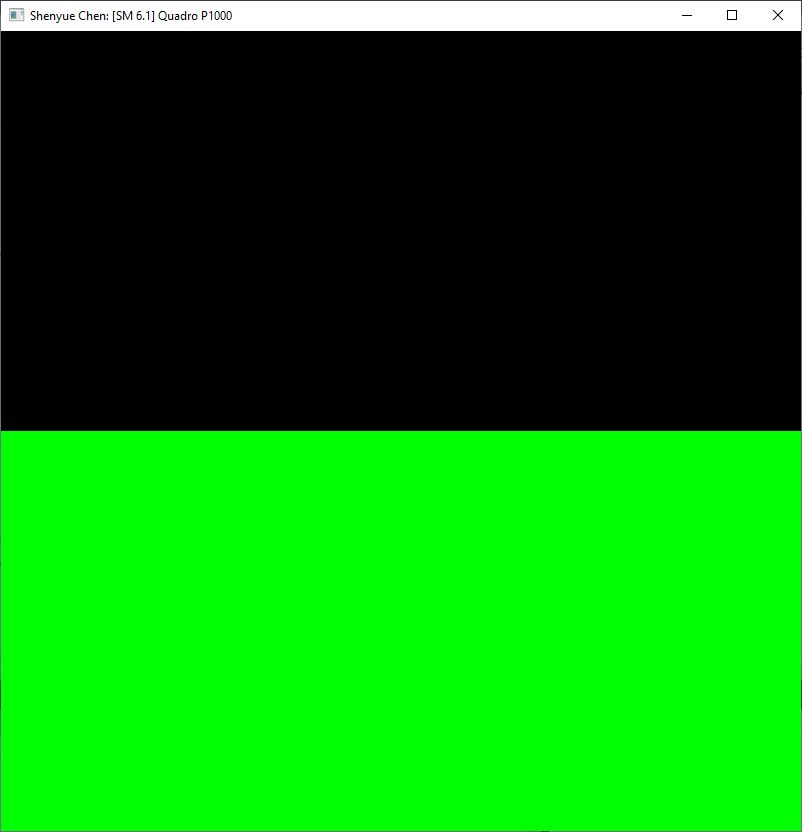
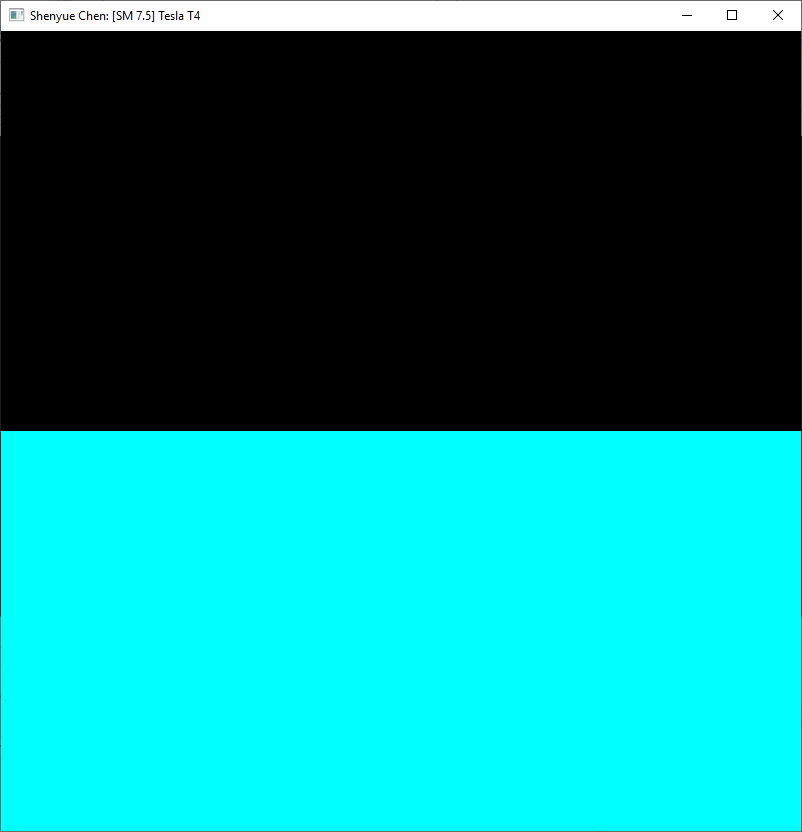
Change to aws

diff --git a/README.md b/README.md
@@ -5,7 +5,7 @@ Project 0 Getting Started
 
 * Shenyue Chen
   * [LinkedIn](https://www.linkedin.com/in/shenyue-chen-5b2728119/), [personal website](http://github.com/EvsChen)
-* Tested on: Windows 10, i7-9700 @ 3.00GHz 32GB, Quardro P1000 (Towne M70)
+* Tested on: Windows 10, Intel Xeon Platinum 8259CL @ 2.50GHz 16GB, Tesla T4 (AWS g4dn-xlarge)
 
 ### CUDA SM Result
 <p align="center">
@@ -13,11 +13,13 @@ Project 0 Getting Started
 </p>
 
 ### CUDA Analyze Result
-Since the Nsight extension always crashes when I tries opening the Timeline, I did not get a screenshot of this.
+<p align="center">
+<image src="images/nsight-timeline.png"/>
+</p>
 
 ### CUDA Debug Result
 <p align="center">
-<image src="images/cuda-debug.png"/>
+<image src="images/nsight-debug.png"/>
 </p>
 
 ### WebGL Result
@@ -26,4 +28,6 @@ Since the Nsight extension always crashes when I tries opening the Timeline, I d
 </p>
 
 ### DXR Result
-I'm using the CETS virtual lab so I did not finish this part.
+<p align="center">
+<image src="images/dxr.png"/>
+</p>
